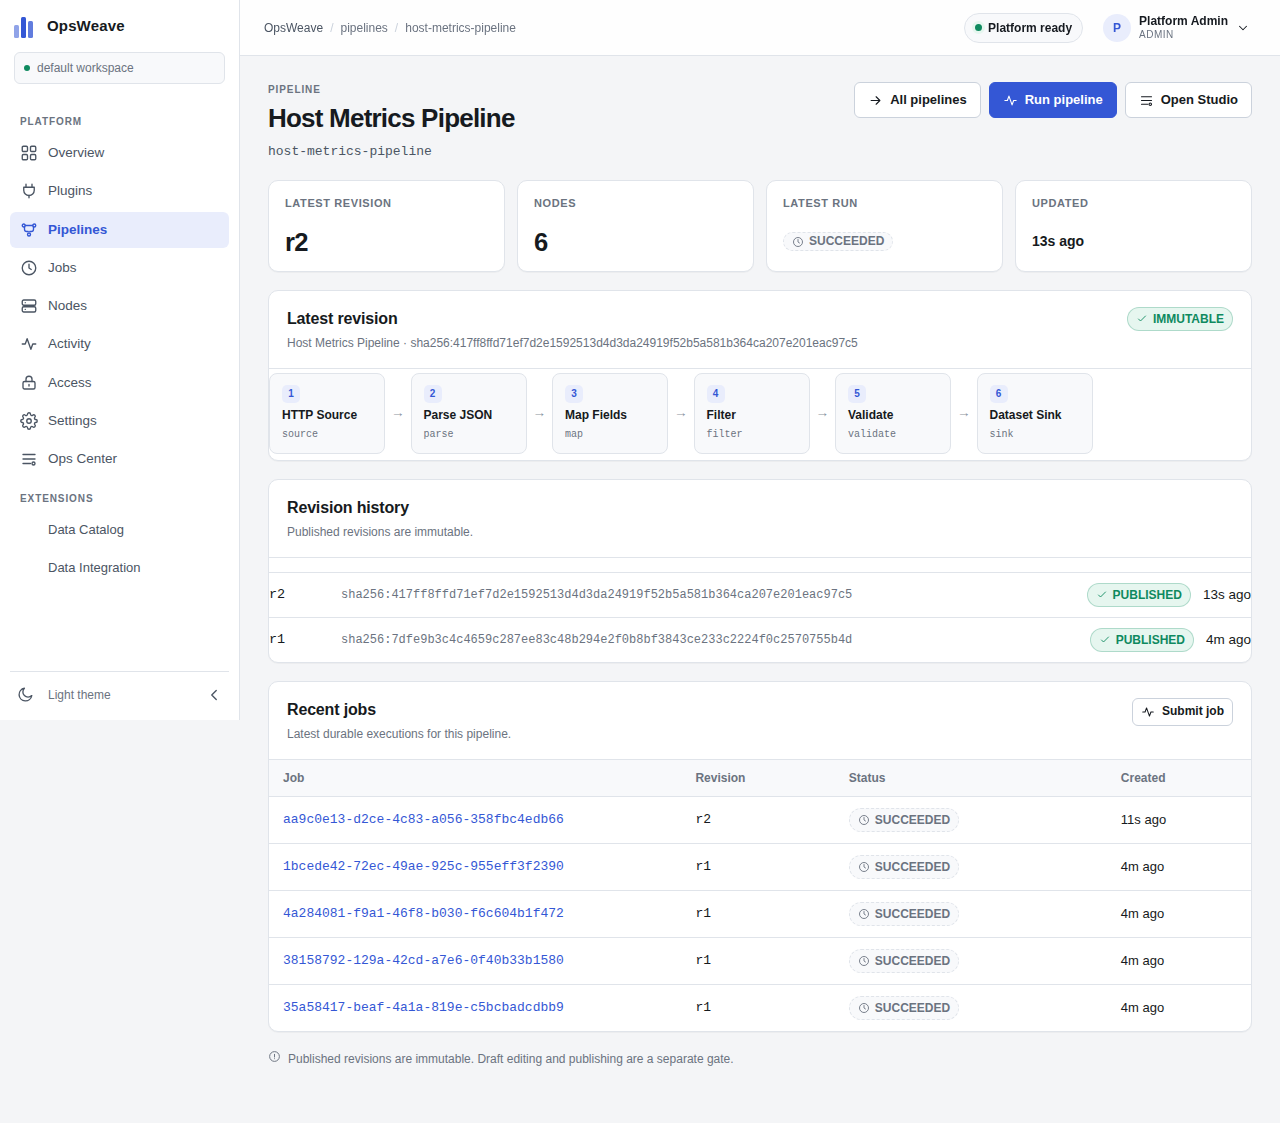
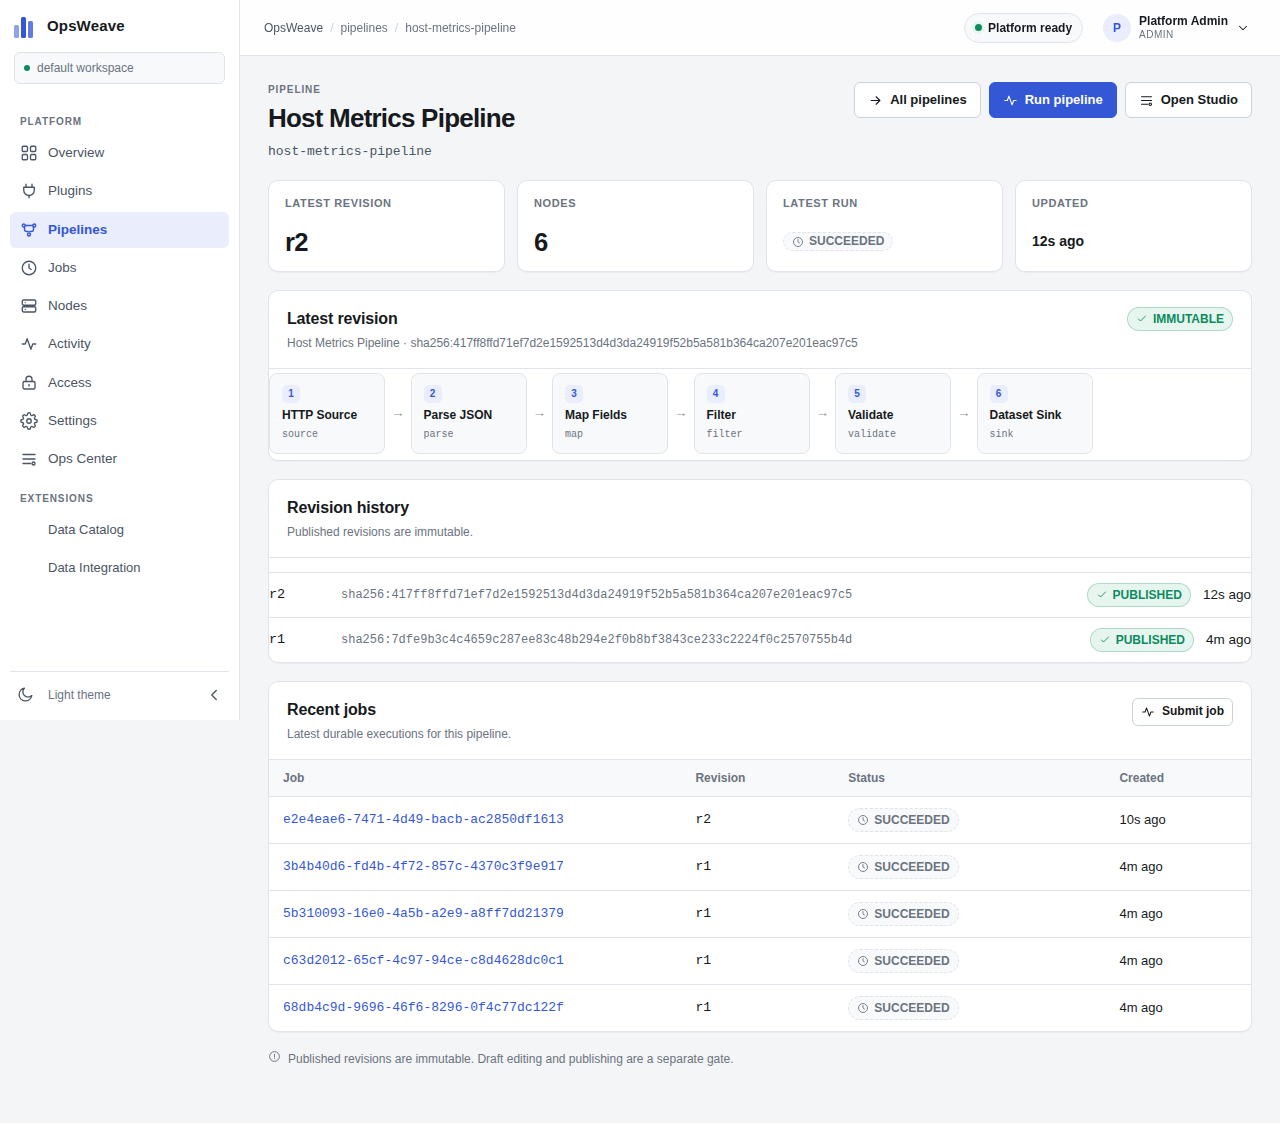
docs(ui): record final code CI and latest browser evidence

diff --git a/docs/acceptance/004-ui-redesign.md b/docs/acceptance/004-ui-redesign.md
@@ -159,3 +159,18 @@ PASS Grant revoke is immediate and restore re-issues an authorized token
   shared Modal component).
 - Job Detail: Execution metric; Result digest moved to collapsed metadata; stale
   “requires dedicated diagnostics API” copy removed.
+
+## Final CI (Code HEAD)
+
+- Data Foundation `40296422810` on `827c0e4`: **SUCCESS** (attempt 1)
+- Runtime `40296422689` on `827c0e4`: **SUCCESS**
+- Standard CI `40296422569` on `827c0e4`: **SUCCESS**
+- Legacy E2E inside Data Foundation: `PASS=21 FAIL=0`
+- Visual Layout / Playwright: 15 passed
+- Prior full green: `40283692688` on `538cf27` (attempt 1 and attempt 2 both **SUCCESS**)
+- Previous full green: `40293429004` on `4b426f6`
+- Final screenshots in this document are from `40296422810` / `827c0e4`.
+
+The failed c28 run (`40288868889` attempt 1) timed out in the draft-conflict
+browser test after 14 other browser tests passed; attempt 2 and the later final
+SHA were green. The capability revoke test itself passed in every c28/final run.
